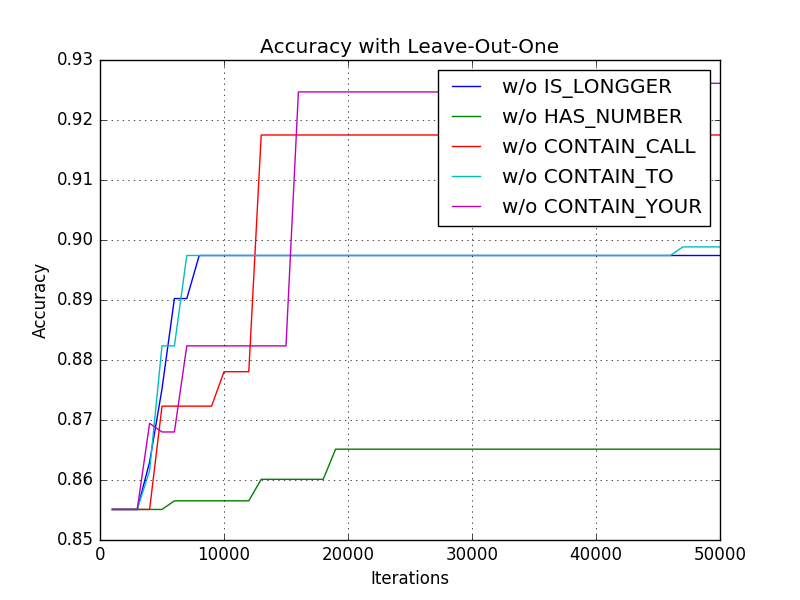
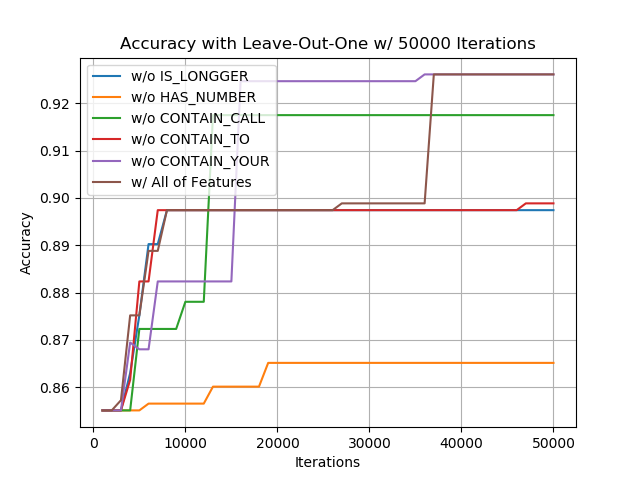
GENERATED: output for 50000 feature selection iterations.

diff --git a/Assignment2/Report/feature_engineering.md b/Assignment2/Report/feature_engineering.md
@@ -17,7 +17,6 @@ MutiualInformation(X,Y) = Sum over every value X has and Y has:
 And use smoothing when calculating the probabilities:
 
 P(*) = (# observed + 1) / (total samples + 2)
-![venn](venn.png)
 
 HAND IN:
 ![iter_cnt_vs_accuracies](iter_cnt_vs_accuracies_50000.png)
@@ -25,7 +24,14 @@ A document that contains the following tables (clearly labeled!)
 
 * A table showing the accuracy with each one left out, compared to a model built with all of them.
 
-** INSERT TABLE HERE **
+  | Leave-out-Features |      Accuracy      |
+  |--------------------|--------------------|
+  |   w/o IS_LONGGER   | 0.8974175035868006 |
+  |   w/o HAS_NUMBER   | 0.8651362984218077 |
+  |  w/o CONTAIN_CALL  | 0.9175035868005739 |
+  |   w/o CONTAIN_TO   | 0.8988522238163558 |
+  |  w/o CONTAIN_YOUR  | 0.9261119081779053 |
+  | w/ All of Features | 0.9261119081779053 |
 
 * A list of the top 10 bag of word features selected by filtering by frequency.
   

diff --git a/Assignment2/Report/accuracy_table_50000.md b/Assignment2/Report/accuracy_table_50000.md
@@ -1,0 +1,11 @@
+| Leave-out-Features |      Accuracy      |
+|--------------------|--------------------|
+|   w/o IS_LONGGER   | 0.8974175035868006 |
+|   w/o HAS_NUMBER   | 0.8651362984218077 |
+|  w/o CONTAIN_CALL  | 0.9175035868005739 |
+|   w/o CONTAIN_TO   | 0.8988522238163558 |
+|  w/o CONTAIN_YOUR  | 0.9261119081779053 |
+| w/ All of Features | 0.9261119081779053 |
+
+50000 iterations
+Took: 19203.187544822693 sec.
